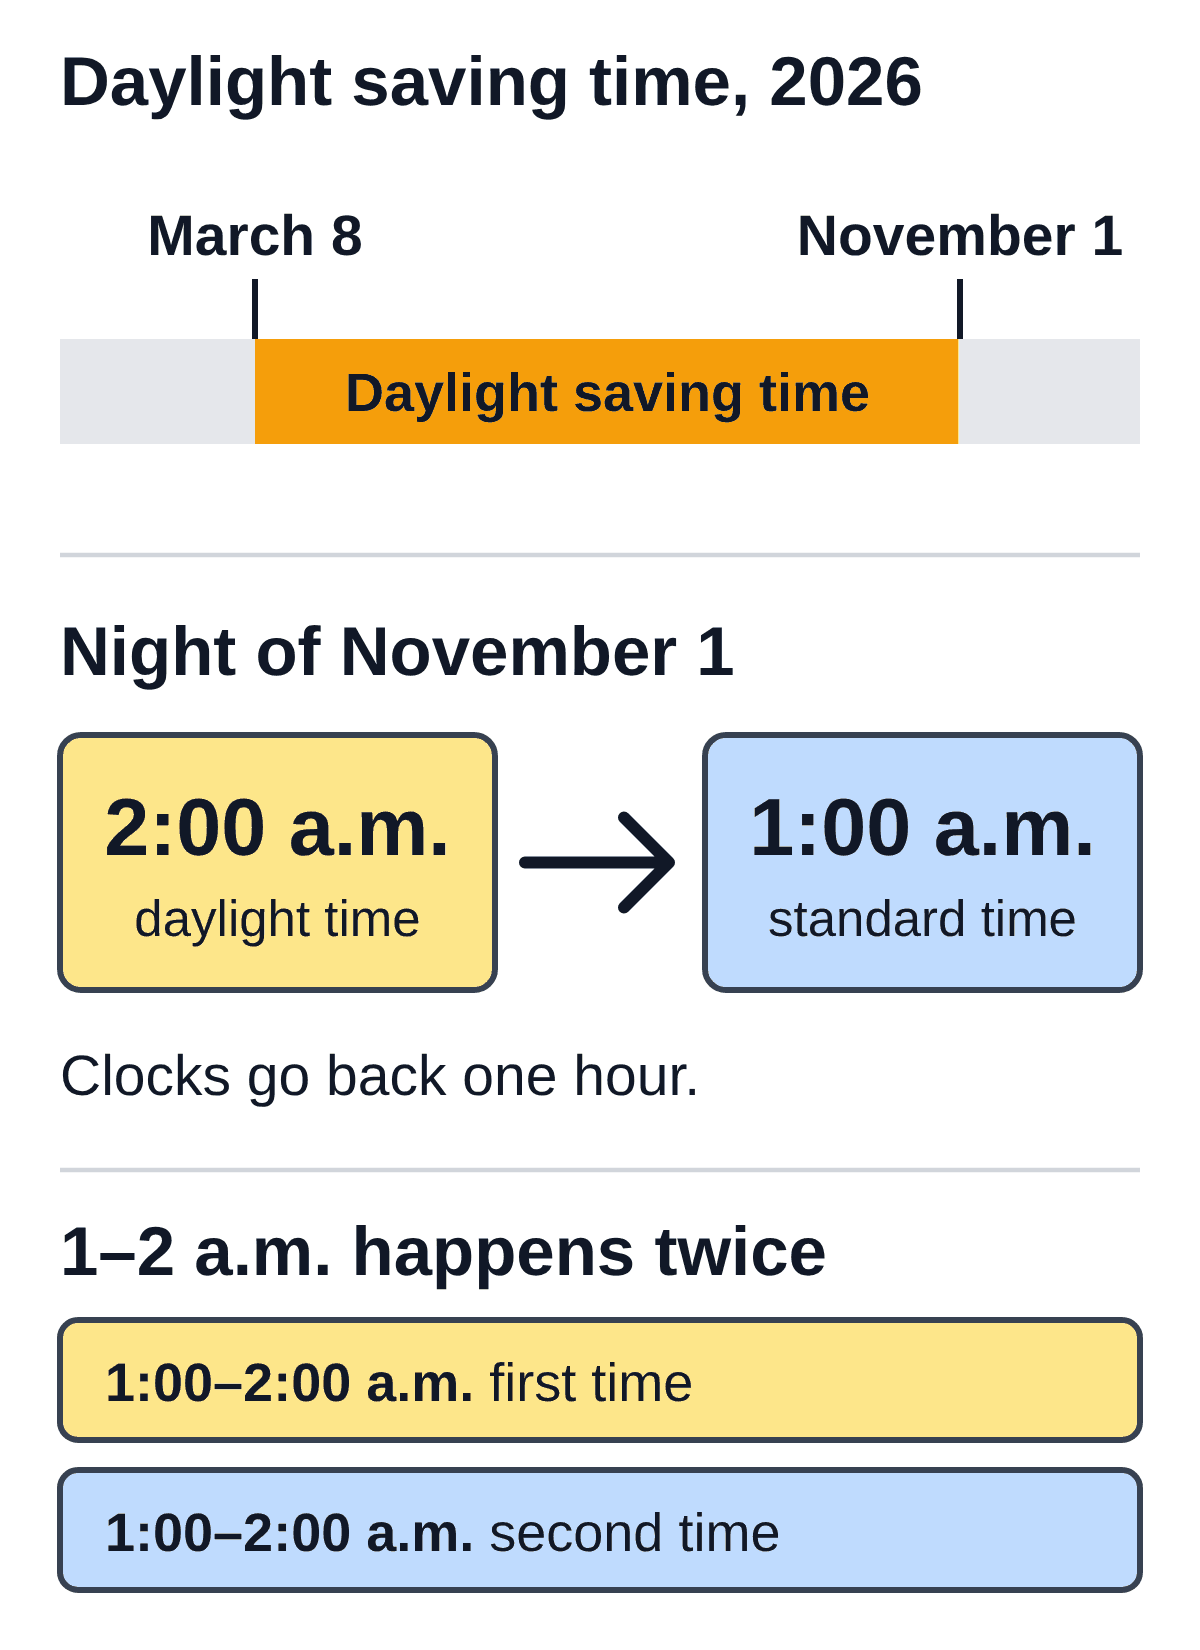
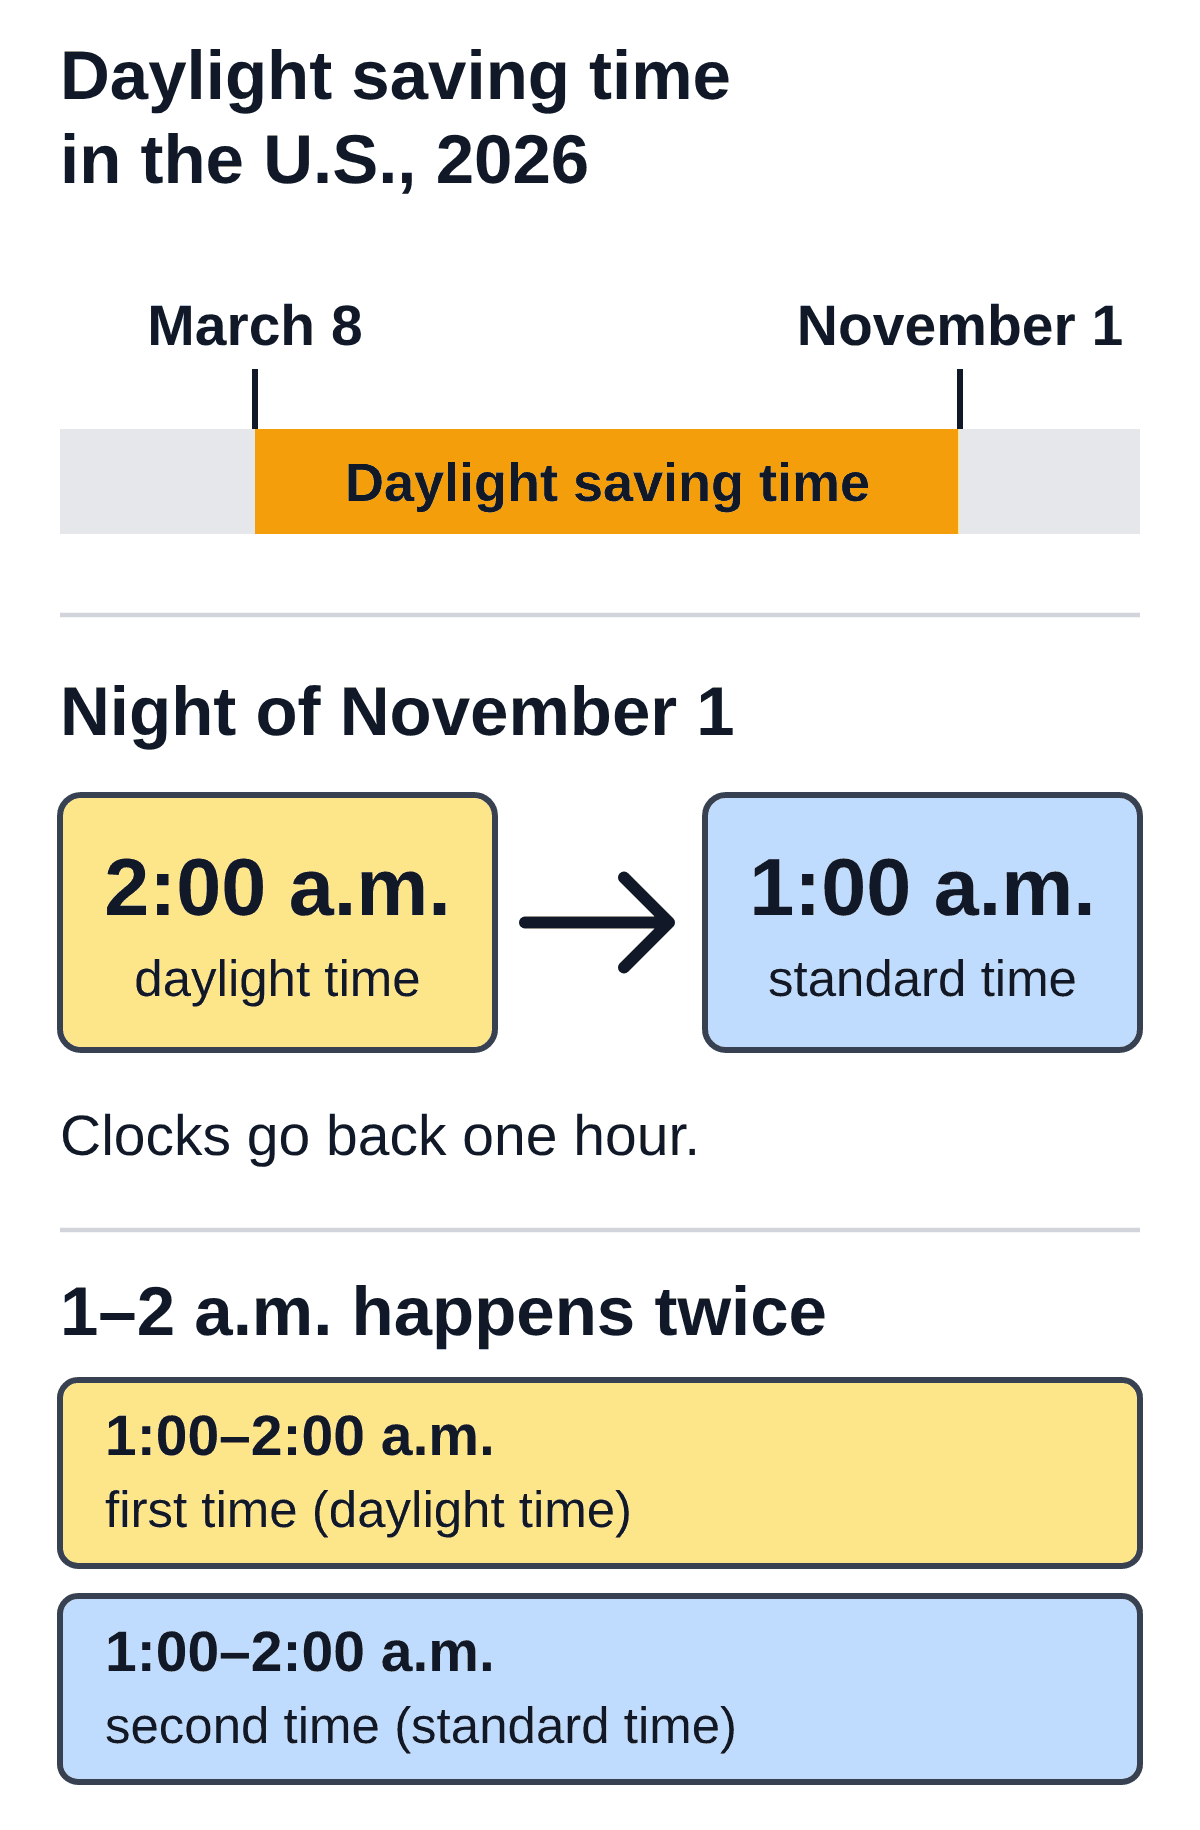
content: diagram title says U.S.; bars carry time zone as text (image review changes)
Claude-Session: https://claude.ai/code/session_01BXtGEA3Qzg6u2ejrb8jbfu

diff --git a/editorial/qa/daylight-saving-time-end-2026-us.md b/editorial/qa/daylight-saving-time-end-2026-us.md
@@ -136,10 +136,10 @@ Result: no source changed. Article moved to `content/ready/`, front matter `stat
 
 After the article was uploaded to WordPress as a draft, the preview on a phone-width screen
 (375 px) showed the first diagram shrunk to about 26% of its size, so its text was too small
-to read. The diagram was redrawn in portrait format (PNG 1200 x 1650; text is 34 px or larger in the 800 px wide source) with less content:
+to read. The diagram was redrawn in portrait format (PNG 1200 x 1830; text is 34 px or larger in the 800 px wide source) with less content:
 
-- top: timeline with only "March 8" and "November 1";
-- bottom: "2:00 a.m. -> 1:00 a.m." and "1-2 a.m. happens twice";
+- top: title "Daylight saving time in the U.S., 2026" (so the image still says it is the U.S. rule when shared on its own), then a timeline with only "March 8" and "November 1";
+- bottom: "2:00 a.m. -> 1:00 a.m." and "1-2 a.m. happens twice", where each of the two bars carries the time zone as text and not only as colour: "first time (daylight time)" and "second time (standard time)";
 - removed from the image: the statute citation, the rule sentence and the places that do not
   observe daylight saving time. These stay in the article text and table only.
 
@@ -149,8 +149,10 @@ hour happens twice, first on daylight time and then on standard time). The image
 simulated at 315 px width and all text was readable. Alt text in the front matter and in the
 body was updated to match.
 
-Status: image re-review by ChatGPT pending. The WordPress draft keeps the old image until the
-new one is uploaded after that review.
+Image review by ChatGPT (2026-10-07): dates and times match the article, no clipped or overlapping text, better on a phone than the first version. Two changes were requested and made: the image title now says "in the U.S." and the two bars now carry the time zone as text. With those two changes ChatGPT counted the image review as passed.
+
+Status: image review passed. The new image replaces the old one in the WordPress draft before
+publishing.
 
 ### Hand-off for publishing in WordPress (user)
 

diff --git a/content/ready/daylight-saving-time-end-2026-us.md b/content/ready/daylight-saving-time-end-2026-us.md
@@ -8,7 +8,7 @@ status: ready
 date: 2026-10-06
 internal_link_candidates: none (no published articles yet)
 image: assets/optimized/daylight-saving-time-end-2026-us.png
-image_alt: "Diagram of 2026 daylight saving time from March 8 to November 1, and the clock change on November 1: 2:00 a.m. daylight time becomes 1:00 a.m. standard time, so the hour from 1:00 to 2:00 a.m. happens twice."
+image_alt: "Diagram of U.S. daylight saving time in 2026 from March 8 to November 1, and the clock change on November 1: 2:00 a.m. daylight time becomes 1:00 a.m. standard time, so the hour from 1:00 to 2:00 a.m. happens twice."
 ---
 
 # When Does Daylight Saving Time End in the U.S. in 2026?
@@ -23,7 +23,7 @@ When local clocks reach 2:00 a.m., they move back one hour to 1:00 a.m. That mea
 
 Daylight saving time began this year on March 8, 2026, when clocks moved ahead from 2:00 a.m. to 3:00 a.m.
 
-![Diagram of 2026 daylight saving time from March 8 to November 1, and the clock change on November 1: 2:00 a.m. daylight time becomes 1:00 a.m. standard time, so the hour from 1:00 to 2:00 a.m. happens twice.](assets/optimized/daylight-saving-time-end-2026-us.png)
+![Diagram of U.S. daylight saving time in 2026 from March 8 to November 1, and the clock change on November 1: 2:00 a.m. daylight time becomes 1:00 a.m. standard time, so the hour from 1:00 to 2:00 a.m. happens twice.](assets/optimized/daylight-saving-time-end-2026-us.png)
 
 ## The rule behind the date
 
